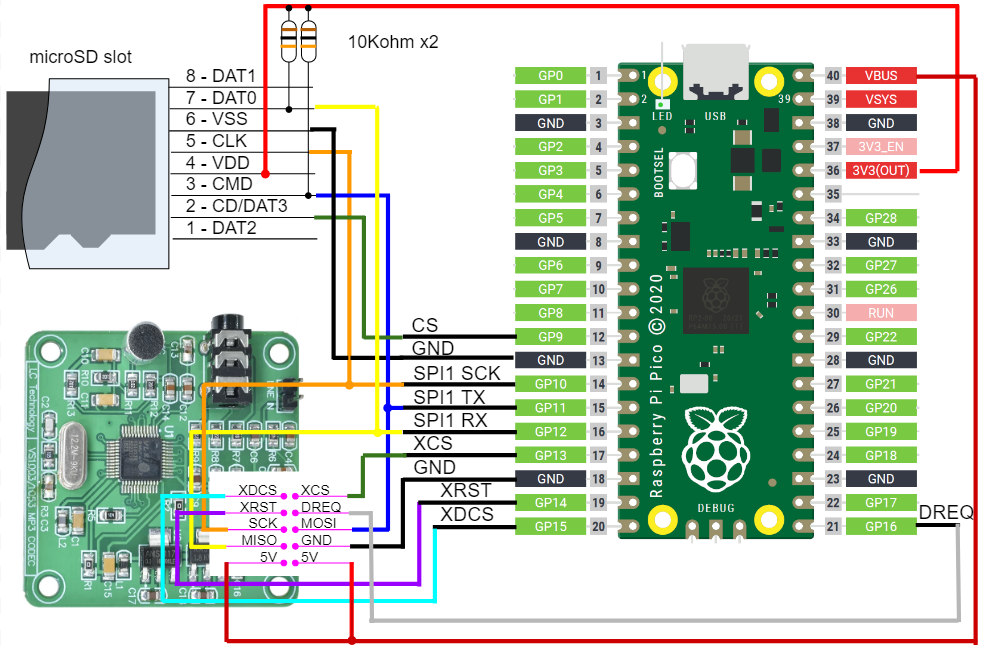
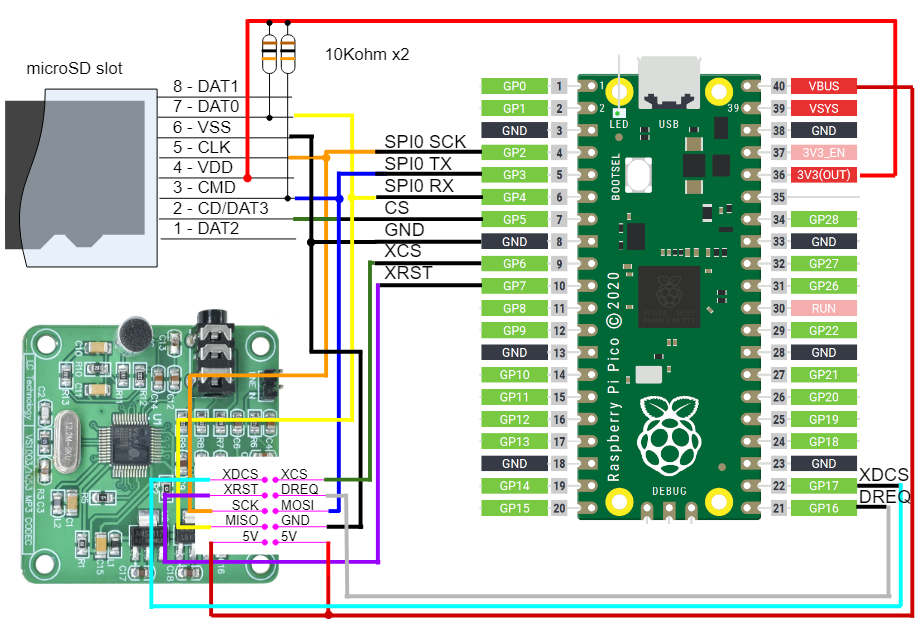
move from SPI1 to SPI0

diff --git a/pico.go b/pico.go
@@ -8,14 +8,14 @@ import (
 )
 
 func init() {
-	spi      = machine.SPI1
-	sckPin   = machine.GPIO10
-	sdoPin   = machine.GPIO11
-	sdiPin   = machine.GPIO12
-	csSdPin  = machine.GPIO9
-	csVsPin  = machine.GPIO13
-	xrstPin  = machine.GPIO14
-	xdcsPin  = machine.GPIO15
+	spi      = machine.SPI0
+	sckPin   = machine.GPIO2
+	sdoPin   = machine.GPIO3
+	sdiPin   = machine.GPIO4
+	csSdPin  = machine.GPIO5
+	csVsPin  = machine.GPIO6
+	xrstPin  = machine.GPIO7
+	xdcsPin  = machine.GPIO17
 	xdreqPin = machine.GPIO16
 	ledPin   = machine.LED
 }

diff --git a/fatfs/ff.h b/fatfs/ff.h
@@ -252,7 +252,7 @@ typedef struct {
 
 /* File function return code (FRESULT) */
 
-typedef enum {
+typedef enum _FRESULT {
     FR_OK = 0,              /* (0) Succeeded */
     FR_DISK_ERR,            /* (1) A hard error occurred in the low level disk I/O layer */
     FR_INT_ERR,             /* (2) Assertion failed */

diff --git a/Readme.md b/Readme.md
@@ -28,28 +28,28 @@ This project features:
 ### VS1053 board
 | Pico Pin # | Pin Name | Function | VS1053 board |
 ----|----|----|----
-| 14 | GP10 | SPI1_SCK | SCK |
-| 15 | GP11 | SPI1_TX | MOSI |
-| 16 | GP12 | SPI1_RX | MISO |
-| 17 | GP13 | SPI1_CSn | XCS |
-| 19 | GP14 | GPIO Output | XRST |
-| 20 | GP15 | GPIO Output | XDCS |
+|  4 | GP2 | SPI0_SCK | SCK |
+|  5 | GP3 | SPI0_TX | MOSI |
+|  6 | GP4 | SPI0_RX | MISO |
+|  8 | GND | GND | DGND |
+|  9 | GP6 | GPIO Output | XCS |
+| 10 | GP7 | GPIO Output | XRST |
 | 21 | GP16 | GPIO Input | DREQ |
-| 23 | GND | GND | DGND |
+| 22 | GP17 | GPIO Output | XDCS |
 | 40 | VBUS | 5V | 5V |
 
 ### microSD card
 | Pico Pin # | Pin Name | Function | microSD connector | microSD SPI board |
 ----|----|----|----|----
-| 12 | GP9 | SPI1_CSn | CD/DAT3 (2) | CS |
-| 13 | GND | GND | VSS (6) | GND |
-| 14 | GP10 | SPI1_SCK | CLK (5) | CLK |
-| 15 | GP11 | SPI1_TX | CMD (3) | MOSI |
-| 16 | GP12 | SPI1_RX | DAT0 (7) | MISO |
+|  4 | GP2 | SPI0_SCK | CLK (5) | CLK |
+|  5 | GP3 | SPI0_TX | CMD (3) | MOSI |
+|  6 | GP4 | SPI0_RX | DAT0 (7) | MISO |
+|  7 | GP5 | SPI0_CSn | CD/DAT3 (2) | CS |
+|  8 | GND | GND | VSS (6) | GND |
 | 36 | 3V3(OUT) | 3.3V | VDD (4) | 3V3 |
 
 #### Caution
-* SPI1_TX and SPI1_RX needs to be pull-ed up with 10Kohm.
+* SPI0_TX and SPI0_RX needs to be pull-ed up with 10Kohm.
 * Wire length between Pico and SD card is very sensitive. Short wiring as possible is desired, otherwise errors such as Mount error, Preallocation error and Write fail will occur.
 * SPI interface can be shared or serarated with VS1053
 
@@ -65,9 +65,9 @@ This project features:
 ```
 > wsl
 (in WSL2 shell)
-$ docker pull docker pull tinygo/tinygo
+$ docker pull tinygo/tinygo:0.22.0
 $ docker images
-$ docker run -it -v /mnt/d/somewhere/share:/share tinygo/tinygo:latest /bin/bash
+$ docker run -it -v /mnt/d/somewhere/share:/share tinygo/tinygo:0.22.0 /bin/bash
 (in docker container)
 # cd /share
 
@@ -85,7 +85,7 @@ $ docker run -it -v /mnt/d/somewhere/share:/share tinygo/tinygo:latest /bin/bash
 
 * TinyGo Build
 ```
-# tinygo build -target=pico -o pico_tinygo_vs1053.uf2
+# tinygo build -target=pico --serial uart -o pico_tinygo_vs1053.uf2
 
 (copy UF2 back to Windows local if working on docker native directory)
 (# cp pico_tinygo_vs1053.uf2 /share/pico_tinygo_vs1053/ )
